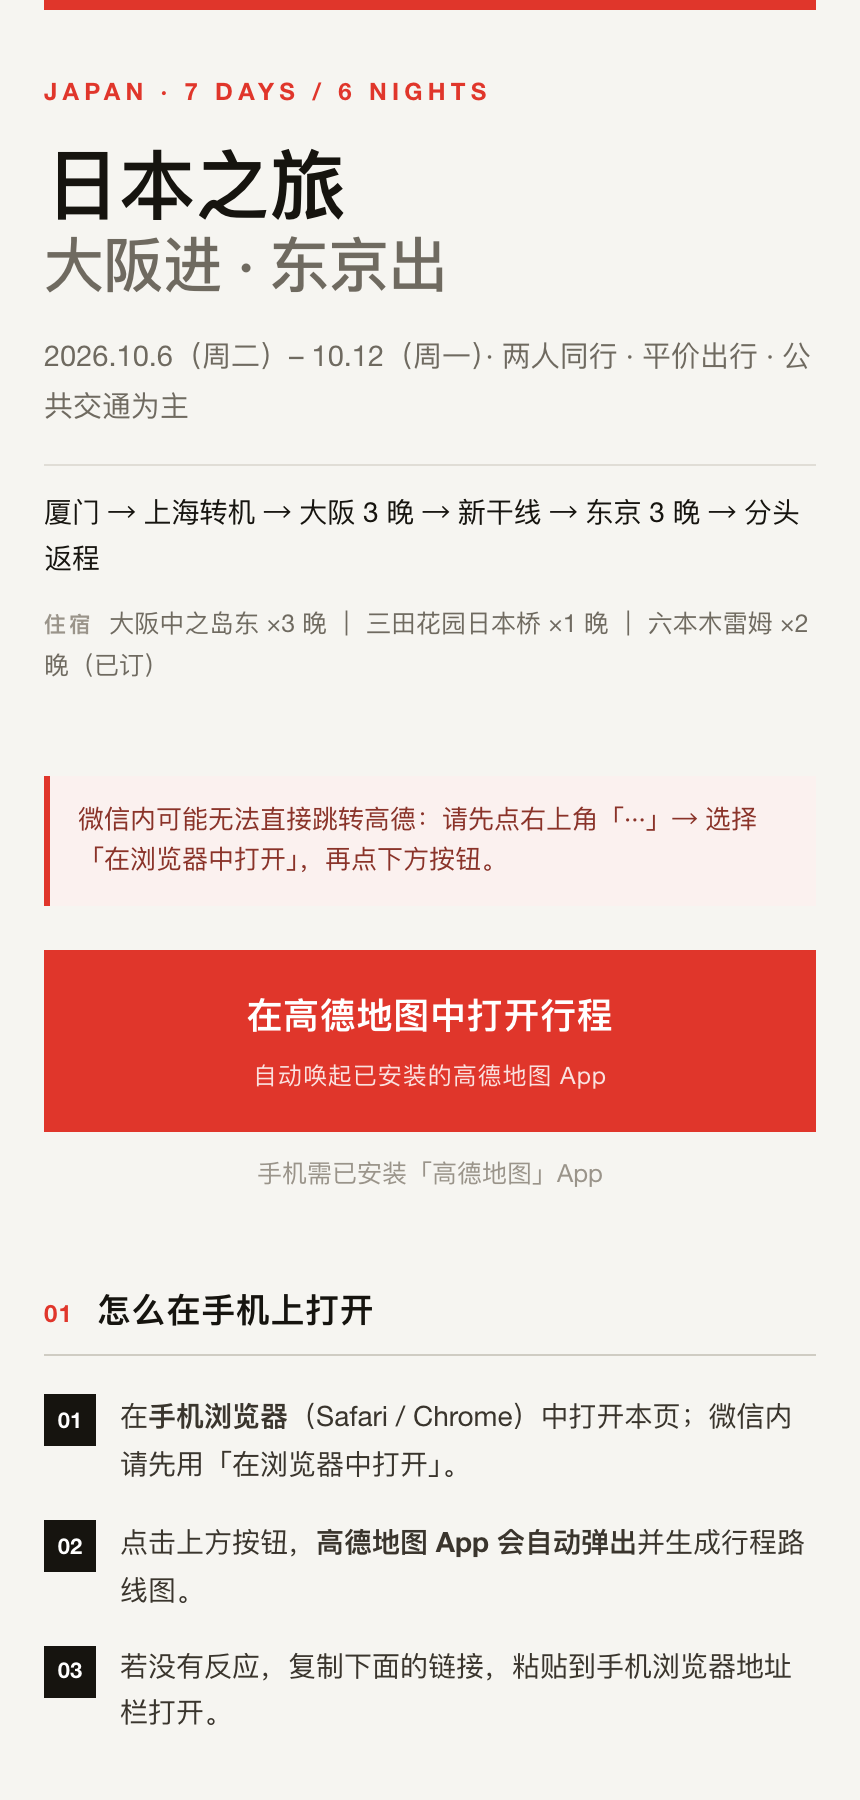
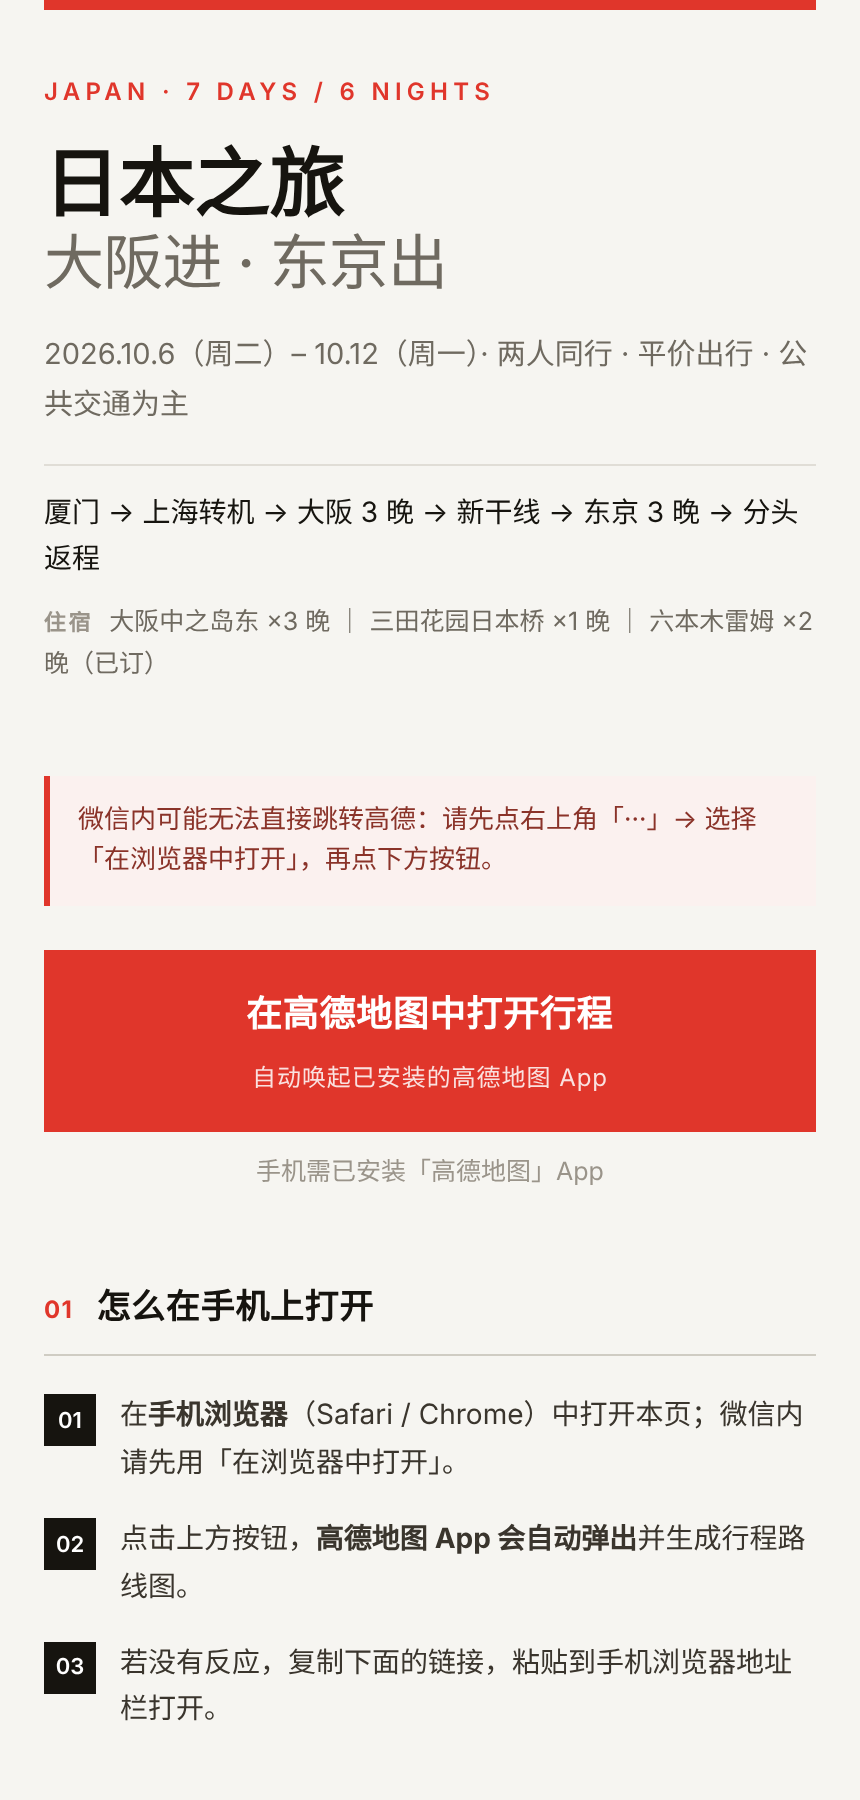
docs: 更新 04-flight 截图以展示出行清单
重拍 docs/screenshots/04-flight-{full,top}.png（430×2x），
全页含「出行清单」分区；同步 README 图片高度 11452→12732。

diff --git a/README.md b/README.md
@@ -33,7 +33,7 @@
 
 ### 出境 · 日本大阪进东京出（航班时间线）
 
-<img width="860" height="11452" alt="出境路书全页" src="docs/screenshots/04-flight-full.png">
+<img width="860" height="12732" alt="出境路书全页" src="docs/screenshots/04-flight-full.png">
 
 ---
 
